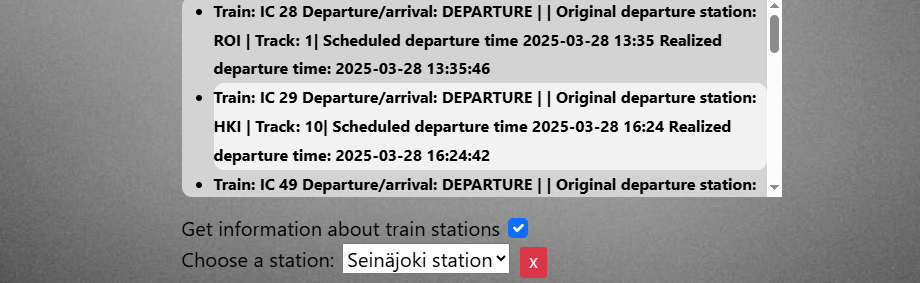
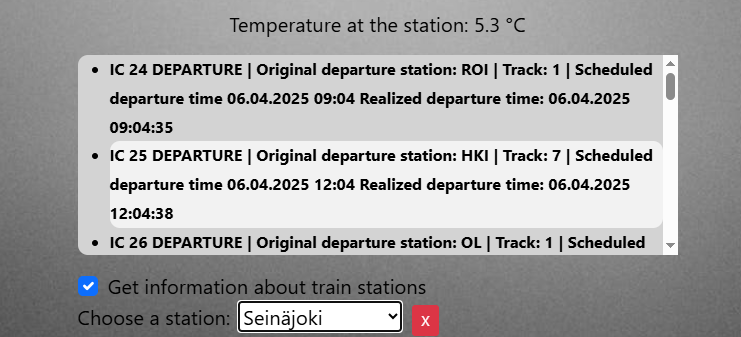
weather api features added to trainStations.js

diff --git a/src/pages/trainStations.js b/src/pages/trainStations.js
@@ -1,7 +1,9 @@
 import { useState } from "react"
+import dayjs from 'dayjs';
 function TrainStations() {
     const [stationClick, setStationClick] = useState(false)
-    function getSelctedStation(val) {
+    var [stationTemp,setStationTemp]=useState(0)
+    function getSelctedStation(val,station) {
         setStationClick(!stationClick)
         const stationUrl = `https://rata.digitraffic.fi/api/v1/live-trains/station/${val}?departing_trains=5`
         const USERID = { 'Digitraffic-User': 'Junamies/FoobarApp 1.0' }
@@ -11,10 +13,12 @@ function TrainStations() {
             })
             //data on json-tulosjoukon nimi
             .then(data => {
-                console.log(data)
+                //console.log(data)
                 var i = 0
                 data.forEach(d => {
                     i += 1
+                    var schTime=dayjs(d.timeTableRows[0].scheduledTime)
+                    var realizedTime=dayjs(d.timeTableRows[0].actualTime)
                     const li = document.createElement("li")
                     if (i % 1 == 0) {
                         li.setAttribute("class", 'liData')
@@ -24,14 +28,33 @@ function TrainStations() {
                     }
 
                     //kentässä näytetää json tulosjoukon roadstationid ja sensorvalue-
-                    li.innerText = "Train: " + d.trainType + ' ' + d.trainNumber + ' Departure/arrival: ' + d.timeTableRows[0].type + ' | ' + '| Original departure station: ' + d.timeTableRows[0].stationShortCode + " | Track: " + d.timeTableRows[0].commercialTrack + "| Scheduled departure time " + d.timeTableRows[0].scheduledTime.replace("T", " ").replace(":00.000Z", " ") + 'Realized departure time: ' + d.timeTableRows[0].actualTime.replace("T", " ").replace(".000Z", " ")
+                    li.innerText = d.trainType + ' ' + d.trainNumber + ' ' + d.timeTableRows[0].type  + ' | Original departure station: ' + d.timeTableRows[0].stationShortCode + " | Track: " + d.timeTableRows[0].commercialTrack + " | Scheduled departure time " + schTime.format("DD.MM.YYYY hh:MM") + ' Realized departure time: ' + realizedTime.format("DD.MM.YYYY hh:MM:ss")
                     document.getElementById("list").appendChild(li)
                 })
 
 
 
             })
+            getStationWeather(station)
     }
+
+
+    function getStationWeather(station) {
+        const apk=localStorage.getItem('weather')
+        const url= `http://api.weatherapi.com/v1/current.json?key=${apk}&q=${station}`
+      
+        fetch(url)
+            .then(response => {
+                return response.json()
+            })
+            .then(data => {
+               
+                document.getElementById("temp").innerText="Temperature at the station: " +data.current.temp_c+" "+ '\u00B0'+"C"
+             
+                })
+           
+    }
+
     function clear() {
 
         document.getElementById("list").hidden = true
@@ -41,12 +64,12 @@ function TrainStations() {
     return(
         <div>
               <label for="stations">Choose a station:</label>
-                <select name="stations" id="stations" onChange={e => getSelctedStation(e.target.value)}>
+                <select name="stations" id="stations" onChange={e => getSelctedStation(e.target.value,e.target.options[e.target.selectedIndex].text)}>
                     <option value="default" selected>select</option>
-                    <option value="hki">Helsinki station</option>
-                    <option value="tku">Turku station</option>
-                    <option value="tpe">Tampere station</option>
-                    <option value="sk">Seinäjoki station</option>
+                    <option value="hki">Helsinki</option>
+                    <option value="tku">Turku</option>
+                    <option value="tpe">Tampere</option>
+                    <option value="sk">Seinäjoki</option>
                 </select>
                 <span className="clearBtn">
                 {stationClick && <button id="clearBtn" class="btn btn-danger btn-sm" onClick={clear}>X</button>}

diff --git a/src/pages/train.js b/src/pages/train.js
@@ -45,6 +45,7 @@ function Train() {
         document.getElementById("list").hidden = true
         document.getElementById("clearBtn").hidden = true
         setShowTts(showTts = false)
+        setHideStation(!hideStation)
     }
     function fromStation(day) {
         var URLi = ""
@@ -285,6 +286,8 @@ function Train() {
             {showTts && <ConvertText />}
 
             <div id="trainContent" className="trainContent">
+                <br></br>
+                <p id="temp" className="temp"></p>
                 <ul id="list" className="list"></ul>
             </div>
             <div className="station" hidden={hideStation}>

diff --git a/src/App.css b/src/App.css
@@ -246,3 +246,6 @@
   padding: 10px;
 
 }
+.temp {
+  text-align: center;
+}

diff --git a/README.md b/README.md
@@ -44,9 +44,9 @@ Additionally, the REST API displays date data in the format YYYY-MM-DD by defaul
 
 SEARCH TRAIN STATION INFORMATION
 
-The user can select the desired station from the html selector component. This feature displays the trains that stop at the selected stations, the scheduled arrival/departure time of the trains, and the actual arrival or departure time. The planned track used by the train when arriving at the station is also displayed.
+The user can select the desired station from the html selector component. This feature displays the trains that stop at the selected stations, the scheduled arrival/departure time of the trains, and the actual arrival or departure time. The planned track used by the train when arriving at the station is also displayed. When you search for train station information, the app also shows the temperature in Celsius for the city where the searched train station is located. The Weather API is used to search for weather information. https://www.weatherapi.com/
 
-Example image where the user has selected Seinäjoki station.
+Example image where the user has selected the Seinäjoki station and also sees the weather temperature in Seinäjoki.
 
 ![alt text](src/images/skStation.png)
 
